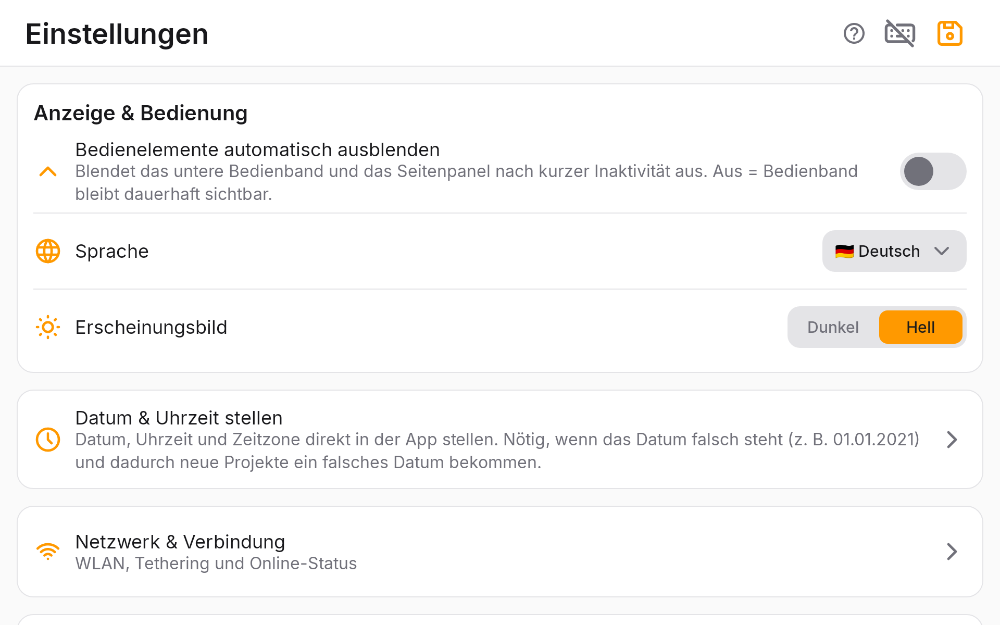
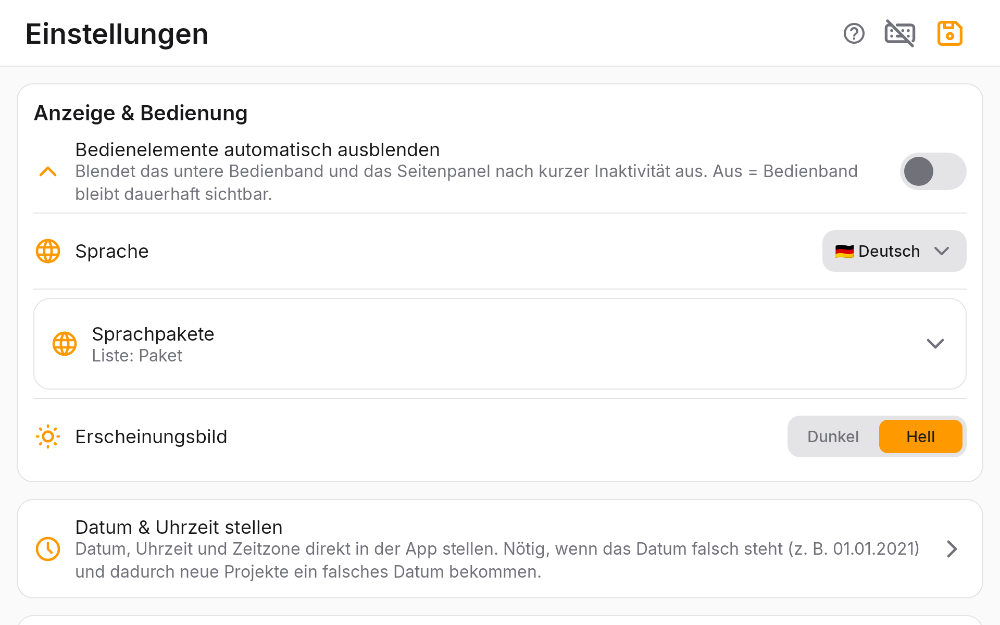
feat(l10n): Sprachpakete in den Einstellungen — Laden, Loeschen, Auffrischen, Diagnosezeile (Z-3, Z-6)
- LanguagePacksCard (SettingsScreen): aufklappbare DqCard unter der Sprachauswahl, kein neuer Bildschirm (E-P6) -- Zustand je Sprache (im Paket/geladen/nicht geladen), Groesse, Laden/Auffrischen/Loeschen (de/en bleiben "im Paket"), Listenquelle (Portal/gespeichert/Paket) mit Hinweis bei Nichterreichbarkeit
- SettingsViewModel: availableLanguages (LocalizationManager-StateFlow), loadLanguagePack/refreshLanguagePack/deleteLanguagePack ueber L10nPortalClient + LocalePackStore, refreshL10nDiagnostics spiegelt FallbackCounter mit NonCancellable-Persistenz (Muster Welle 28) -- Diagnosezeile ueberlebt einen Neustart (R-6: Karte "Sprachpakete", nicht die Zeitseite)
- LocalizationManager: loadPack/unloadPack als produktive Kettenglieder fuer nachgeladene Pakete
- 12 neue Textschluessel (l10n_*, PLAN.md Abschnitt 6), de+en
- Golden-Update (tools/manual/verify.ps1 -Update): scr09_settings (de+en) aendert sich wie erwartet

Root-Cause-Fund waehrend des Golden-Updates: ein automatischer Portal-Refresh beim Betreten
der Einstellungen (LaunchedEffect) loeste auch in ManualScreenshotTest/Paparazzi einen echten
Netzzugriff aus und schrieb eine echte Datei (app/l10n/locales.json) ausserhalb der Sandbox --
entfernt; das Betreten der Einstellungen spiegelt nur noch lokal die Diagnosezeile, die
Portalliste wird weiterhin beim App-Start (LocalizationManager.init) und ueber die bewusste
"Auffrischen"-Aktion je Sprache geholt. Ein zweiter, unabhaengiger Golden-Unterschied
[…]

diff --git a/app/src/main/java/com/uip/oneapp/ui/screens/settings/SettingsScreen.kt b/app/src/main/java/com/uip/oneapp/ui/screens/settings/SettingsScreen.kt
@@ -80,6 +80,18 @@ fun SettingsScreen(
     val savedMessage = S("settings_saved")
     val hideKeyboard = rememberKeyboardHider()
 
+    // Z-6: beim Betreten der Einstellungen die Diagnosezeile spiegeln (rein lokale
+    // Berechnung, kein Netzzugriff). Die Portalliste selbst wird NICHT bei jedem
+    // Bildschirmbetreten neu abgerufen (das geschieht bereits einmal leise in
+    // LocalizationManager.init beim App-Start, Plan 3f) -- ein automatischer Live-Abruf
+    // hier wuerde auch in deterministischen Tests (ManualScreenshotTest/Paparazzi) feuern
+    // und dort einen echten Netzzugriff + eine echte Dateischreibung ausloesen (gefunden
+    // beim Golden-Update dieser Welle: app/l10n/locales.json entstand als Testartefakt).
+    // Auffrischen bleibt eine bewusste Aktion (Sprachzeile "Auffrischen").
+    LaunchedEffect(Unit) {
+        viewModel.refreshL10nDiagnostics()
+    }
+
     Scaffold(
         containerColor = c.bgWindow,
         snackbarHost = { SnackbarHost(snackbarHostState) },
@@ -219,6 +231,9 @@ fun SettingsScreen(
                     options = availableLangs.map { it.code to "${it.flag}  ${it.name}" },
                     onSelect = { code -> LocalizationManager.setLanguage(context, code) },
                 )
+                DqRowDivider()
+
+                LanguagePacksCard(viewModel)
                 DqRowDivider()
 
                 DqSettingRow(
@@ -807,6 +822,116 @@ private fun OsdDropdown(
         ExposedDropdownMenu(expanded = expanded, onDismissRequest = { onExpandedChange(false) }) {
             HideSystemBarsInDialog()
             items()
+        }
+    }
+}
+
+/**
+ * Z-3/Z-6 (AUFTRAG.md Abschnitt 3): Sprachverwaltung -- Liste (nur was das Portal fuehrt,
+ * Z-5), Zustand je Sprache, Laden/Auffrischen/Loeschen, Diagnosezeile fuer stille
+ * Rueckfaelle (R-6: gehoert hierher, nicht auf die Zeitseite). Kein neuer Bildschirm
+ * (E-P6) -- eine aufklappbare Karte unter der Sprachauswahl.
+ */
+@Composable
+private fun LanguagePacksCard(viewModel: SettingsViewModel) {
+    val c = DrainQTheme.colors
+    val languages by viewModel.availableLanguages.collectAsState()
+    val busyCode by viewModel.l10nBusyCode.collectAsState()
+    val diagToEnglish by viewModel.l10nDiagToEnglish.collectAsState()
+    val diagToKeyName by viewModel.l10nDiagToKeyName.collectAsState()
+    val missingKeys by viewModel.l10nMissingKeys.collectAsState()
+    var expanded by remember { mutableStateOf(false) }
+    var missingKeysExpanded by remember { mutableStateOf(false) }
+
+    val listSourceKey = when (languages.firstOrNull()?.listSource) {
+        com.uip.oneapp.ui.localization.ListSource.PORTAL -> "l10n_list_source_portal"
+        com.uip.oneapp.ui.localization.ListSource.STORED -> "l10n_list_source_stored"
+        else -> "l10n_list_source_bundle"
+    }
+
+    DqCard(modifier = Modifier.fillMaxWidth()) {
+        DqSettingRow(
+            title = S("l10n_packs_title"),
+            iconKey = "language",
+            subtitle = S(listSourceKey),
+            trailing = {
+                DqIcon(if (expanded) "expand_less" else "chevron_down", size = Dimensions.DqIconStd, tint = c.textSecondary)
+            },
+            modifier = Modifier.clickable { expanded = !expanded },
+        )
+        if (expanded) {
+            if (listSourceKey != "l10n_list_source_portal") {
+                Text(
+                    text = S("l10n_portal_unreachable"),
+                    style = MaterialTheme.typography.bodySmall,
+                    color = c.warning,
+                    modifier = Modifier.padding(top = Dimensions.Space4, bottom = Dimensions.Space8),
+                )
+            }
+            languages.forEach { lang ->
+                DqRowDivider()
+                val stateKey = when (lang.state) {
+                    com.uip.oneapp.ui.localization.PackState.BUNDLED -> "l10n_state_bundled"
+                    com.uip.oneapp.ui.localization.PackState.LOADED -> "l10n_state_loaded"
+                    com.uip.oneapp.ui.localization.PackState.NOT_LOADED -> "l10n_state_not_loaded"
+                }
+                val sizeText = if (lang.bytes > 0) " · ${lang.bytes / 1024} kB" else ""
+                DqSettingRow(
+                    title = "${lang.flag}  ${lang.name}",
+                    subtitle = "${S(stateKey)}$sizeText",
+                    trailing = {
+                        Row(verticalAlignment = Alignment.CenterVertically) {
+                            val isBusy = busyCode == lang.code
+                            if (lang.code != "de" && lang.code != "en") {
+                                when (lang.state) {
+                                    com.uip.oneapp.ui.localization.PackState.NOT_LOADED -> DqButton(
+                                        text = S("l10n_action_load"),
+                                        onClick = { viewModel.loadLanguagePack(lang.code) },
+                                        style = DqButtonStyle.Secondary,
+                                        enabled = !isBusy,
+                                    )
+                                    com.uip.oneapp.ui.localization.PackState.LOADED -> {
+                                        DqButton(
+                                            text = S("l10n_action_refresh"),
+                                            onClick = { viewModel.refreshLanguagePack(lang.code) },
+                                            style = DqButtonStyle.Secondary,
+                                            enabled = !isBusy,
+                                        )
+                                        Spacer(Modifier.width(Dimensions.Space8))
+                                        DqButton(
+                                            text = S("l10n_action_delete"),
+                                            onClick = { viewModel.deleteLanguagePack(lang.code) },
+                                            style = DqButtonStyle.Danger,
+                                            enabled = !isBusy,
+                                        )
+                                    }
+                                    com.uip.oneapp.ui.localization.PackState.BUNDLED -> {}
+                                }
+                            }
+                        }
+                    },
+                )
+            }
+            DqRowDivider()
+            val diagLine = S("l10n_diag_line")
+                .replace("{en}", diagToEnglish.toString())
+                .replace("{key}", diagToKeyName.toString())
+            Text(
+                text = diagLine,
+                style = MaterialTheme.typography.bodySmall,
+                color = c.textSecondary,
+                modifier = Modifier
+                    .padding(top = Dimensions.Space8)
+                    .clickable { missingKeysExpanded = !missingKeysExpanded },
+            )
+            if (missingKeysExpanded && missingKeys.isNotEmpty()) {
+                Text(
+                    text = missingKeys.joinToString(", "),
+                    style = MaterialTheme.typography.bodySmall,
+                    color = c.textSecondary,
+                    modifier = Modifier.padding(top = Dimensions.Space4),
+                )
+            }
         }
     }
 }

diff --git a/app/src/main/java/com/uip/oneapp/ui/screens/settings/SettingsViewModel.kt b/app/src/main/java/com/uip/oneapp/ui/screens/settings/SettingsViewModel.kt
@@ -100,6 +100,73 @@ class SettingsViewModel(
     fun updateDamagePreset(index: Int, newName: String) = damagePresetRepository.updatePreset(index, newName)
     fun resetDamagePresets() = damagePresetRepository.resetToDefaults()
 
+    // === Welle l10n-anschluss Z-3/Z-6: Sprachpakete + Rueckfall-Diagnose ===
+
+    private val localePackStore = com.uip.oneapp.ui.localization.LocalePackStore(context)
+
+    /** Z-5: die sichtbare Liste (nur was das Portal fuehrt); Flaggen/Namen/Zustand/Groesse. */
+    val availableLanguages: StateFlow<List<com.uip.oneapp.ui.localization.AppLanguage>> =
+        com.uip.oneapp.ui.localization.LocalizationManager.availableLanguages
+
+    private val _l10nBusyCode = MutableStateFlow<String?>(null)
+    val l10nBusyCode: StateFlow<String?> = _l10nBusyCode.asStateFlow()
+
+    private val _l10nDiagToEnglish = MutableStateFlow(0)
+    val l10nDiagToEnglish: StateFlow<Int> = _l10nDiagToEnglish.asStateFlow()
+    private val _l10nDiagToKeyName = MutableStateFlow(0)
+    val l10nDiagToKeyName: StateFlow<Int> = _l10nDiagToKeyName.asStateFlow()
+    val l10nMissingKeys: StateFlow<List<String>> = com.uip.oneapp.ui.localization.FallbackCounter.missingKeys
+
+    /** Beim Betreten der Einstellungen und nach einem Sprachwechsel (E-P5): Zaehler spiegeln. */
+    fun refreshL10nDiagnostics() {
+        val en = com.uip.oneapp.ui.localization.FallbackCounter.toEnglishCount
+        val key = com.uip.oneapp.ui.localization.FallbackCounter.toKeyNameCount
+        _l10nDiagToEnglish.value = en
+        _l10nDiagToKeyName.value = key
+        viewModelScope.launch(NonCancellable) { persistL10nDiagnostic(en, key) }
+    }
+
+    /** Z-5: Portalliste neu abrufen (Betreten der Einstellungen, Pull-Aktion). */
+    fun refreshLanguageList() {
+        viewModelScope.launch(kotlinx.coroutines.Dispatchers.IO) {
+            com.uip.oneapp.ui.localization.LocalizationManager.refreshAvailableLanguages(context)
+        }
+    }
+
+    fun loadLanguagePack(code: String) {
+        if (code == "de" || code == "en") return // im Paket, kein Laden noetig
+        viewModelScope.launch(kotlinx.coroutines.Dispatchers.IO) {
+            _l10nBusyCode.value = code
+            val meta = localePackStore.loadMeta(code)
+            when (val result = com.uip.oneapp.network.l10n.L10nPortalClient().fetchBundle(code, etag = meta?.etag)) {
+                is com.uip.oneapp.network.l10n.BundleResult.Ok -> {
+                    localePackStore.save(
+                        code, result.values,
+                        com.uip.oneapp.ui.localization.LocalePackMeta(result.etag, result.lastModified, result.bytes, System.currentTimeMillis())
+                    )
+                    com.uip.oneapp.ui.localization.LocalizationManager.loadPack(code, result.values)
+                }
+                is com.uip.oneapp.network.l10n.BundleResult.NotModified -> {
+                    localePackStore.load(code)?.let { com.uip.oneapp.ui.localization.LocalizationManager.loadPack(code, it) }
+                }
+                else -> { /* nicht erreichbar/nicht verfuegbar -- Zustand bleibt NOT_LOADED */ }
+            }
+            com.uip.oneapp.ui.localization.LocalizationManager.refreshAvailableLanguages(context)
+            _l10nBusyCode.value = null
+        }
+    }
+
+    fun refreshLanguagePack(code: String) = loadLanguagePack(code)
+
+    fun deleteLanguagePack(code: String) {
+        if (code == "de" || code == "en") return
+        viewModelScope.launch(kotlinx.coroutines.Dispatchers.IO) {
+            localePackStore.delete(code)
+            com.uip.oneapp.ui.localization.LocalizationManager.unloadPack(code)
+            com.uip.oneapp.ui.localization.LocalizationManager.refreshAvailableLanguages(context)
+        }
+    }
+
     // === Welle geraetezeit Z-1 / zeitseite-nachzug: Systemzeit stellen ===
 
     // Lazy: Robolectric-/Paparazzi-Tests, die das ViewModel nur erzeugen, fassen dadurch
@@ -250,6 +317,8 @@ class SettingsViewModel(
         private val KEY_DIAG_AUTO_ZONE = stringPreferencesKey("time_diag_auto_zone")
         private val KEY_DIAG_RESULT = stringPreferencesKey("time_diag_result")
         private val KEY_DIAG_TIMESTAMP = stringPreferencesKey("time_diag_timestamp")
+        private val KEY_L10N_DIAG_EN = intPreferencesKey("l10n_diag_to_english")
+        private val KEY_L10N_DIAG_KEY = intPreferencesKey("l10n_diag_to_keyname")
     }
 
     /**
@@ -294,9 +363,19 @@ class SettingsViewModel(
         )
     }
 
+    /** Z-6 (E-P5): Diagnosezeile uebersteht einen Neustart, Muster Welle 28 (persistDiagnostic). */
+    internal suspend fun persistL10nDiagnostic(toEnglish: Int, toKeyName: Int) {
+        context.settingsStore.edit { prefs ->
+            prefs[KEY_L10N_DIAG_EN] = toEnglish
+            prefs[KEY_L10N_DIAG_KEY] = toKeyName
+        }
+    }
+
     init {
         viewModelScope.launch {
             val prefs = context.settingsStore.data.first()
+            _l10nDiagToEnglish.value = prefs[KEY_L10N_DIAG_EN] ?: 0
+            _l10nDiagToKeyName.value = prefs[KEY_L10N_DIAG_KEY] ?: 0
             _uiState.value = SettingsUiState(
                 brokerIp = prefs[KEY_BROKER_IP] ?: "172.169.11.200",
                 brokerPort = prefs[KEY_BROKER_PORT] ?: "1883",

diff --git a/app/src/main/java/com/uip/oneapp/ui/localization/LocalizationManager.kt b/app/src/main/java/com/uip/oneapp/ui/localization/LocalizationManager.kt
@@ -756,6 +756,19 @@ object LocalizationManager {
         "cloud_email" to "E-Mail",
         "cloud_password" to "Passwort",
         "cloud_login_button" to "Anmelden",
+        // Welle l10n-anschluss Z-3/Z-6: Sprachpakete in den Einstellungen (PLAN.md Abschnitt 6)
+        "l10n_packs_title" to "Sprachpakete",
+        "l10n_state_bundled" to "im Paket",
+        "l10n_state_loaded" to "geladen",
+        "l10n_state_not_loaded" to "nicht geladen",
+        "l10n_action_load" to "Laden",
+        "l10n_action_refresh" to "Auffrischen",
+        "l10n_action_delete" to "Löschen",
+        "l10n_list_source_portal" to "Liste vom Portal",
+        "l10n_list_source_stored" to "Liste: zuletzt gespeichert",
+        "l10n_list_source_bundle" to "Liste: Paket",
+        "l10n_portal_unreachable" to "Portal nicht erreichbar — gespeicherter Stand",
+        "l10n_diag_line" to "Rückfälle seit Start: EN {en} · Schlüsselname {key}",
     )
 
     private fun noTranslations(): Map<String, String> = mapOf(
@@ -1663,6 +1676,19 @@ object LocalizationManager {
         "pick_on_map" to "Select location on map",
         "tap_to_set_marker" to "Tap on map to set location",
         "apply_location" to "Apply",
+        // Welle l10n-anschluss Z-3/Z-6: Sprachpakete in den Einstellungen (PLAN.md Abschnitt 6)
+        "l10n_packs_title" to "Language packs",
+        "l10n_state_bundled" to "included",
+        "l10n_state_loaded" to "downloaded",
+        "l10n_state_not_loaded" to "not downloaded",
+        "l10n_action_load" to "Download",
+        "l10n_action_refresh" to "Refresh",
+        "l10n_action_delete" to "Delete",
+        "l10n_list_source_portal" to "List from portal",
+        "l10n_list_source_stored" to "List: last saved",
+        "l10n_list_source_bundle" to "List: bundle",
+        "l10n_portal_unreachable" to "Portal unreachable — using saved state",
+        "l10n_diag_line" to "Fallbacks since start: EN {en} · key name {key}",
     )
 
     private fun itTranslations(): Map<String, String> = mapOf(
@@ -11154,6 +11180,16 @@ object LocalizationManager {
             _currentLanguage.value = prefs[KEY_LANGUAGE] ?: "de"
             refreshAvailableLanguages(context)
         }
+    }
+
+    /** Z-3: ein nachgeladenes Sprachpaket in die Kette einhaengen (erstes Kettenglied). */
+    fun loadPack(code: String, values: Map<String, String>) {
+        packs[code] = values
+    }
+
+    /** Z-3: ein Sprachpaket wieder entfernen. de/en (Assets, immer BUNDLED) bleiben stehen. */
+    fun unloadPack(code: String) {
+        if (code != "de" && code != "en") packs.remove(code)
     }
 
     /**
